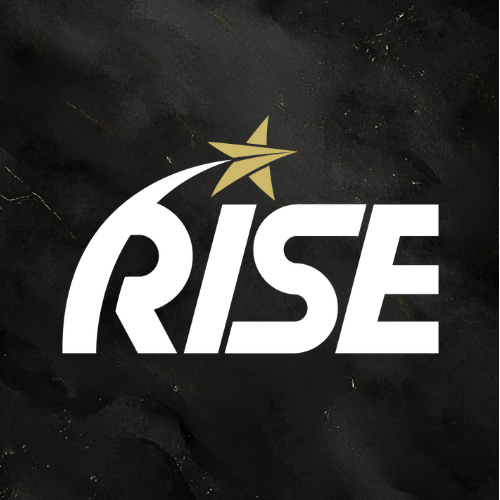
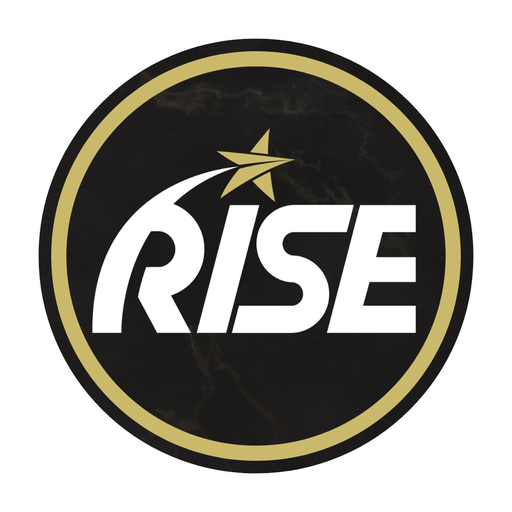
Changes

diff --git a/public/portal.html b/public/portal.html
@@ -24,9 +24,9 @@
     <noscript><link href="https://fonts.googleapis.com/css2?family=Bebas+Neue&display=swap" rel="stylesheet"></noscript>
     
     <!-- Favicon and Icons -->
-    <link rel="icon" type="image/png" sizes="32x32" href="/favicon.png" />
-    <link rel="icon" type="image/png" sizes="16x16" href="/favicon.png" />
-    <link rel="apple-touch-icon" sizes="192x192" href="/lovable-uploads/icon-192x192.png" />
+    <link rel="icon" type="image/x-icon" href="/favicon.ico?v=20260521" sizes="any" />
+    <link rel="icon" type="image/png" href="/favicon.png?v=20260521" sizes="512x512" />
+    <link rel="apple-touch-icon" sizes="180x180" href="/apple-touch-icon.png?v=20260521" />
     
     <!-- PWA Manifest - STATIC for Player Portal -->
     <link rel="manifest" href="/manifest-player.json" id="manifest-link" />
